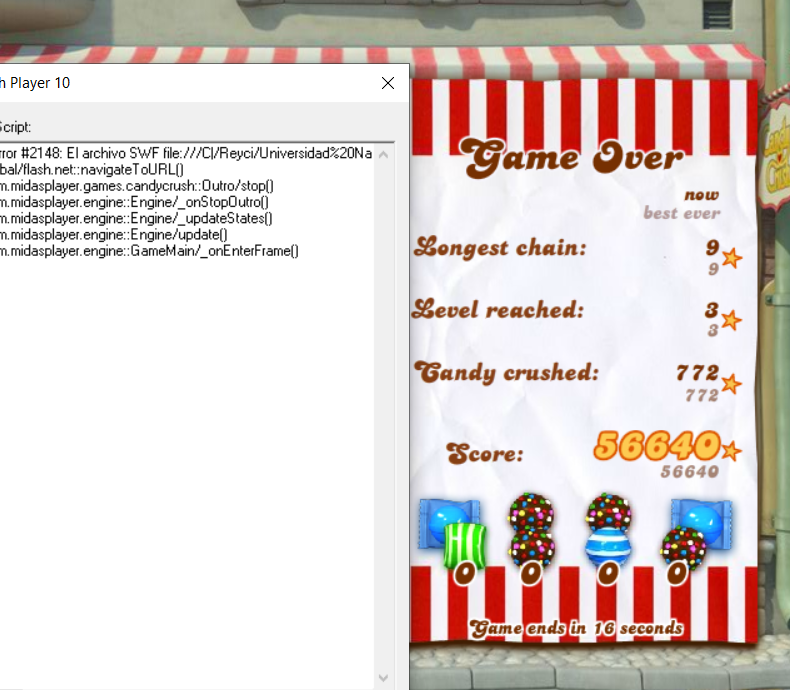
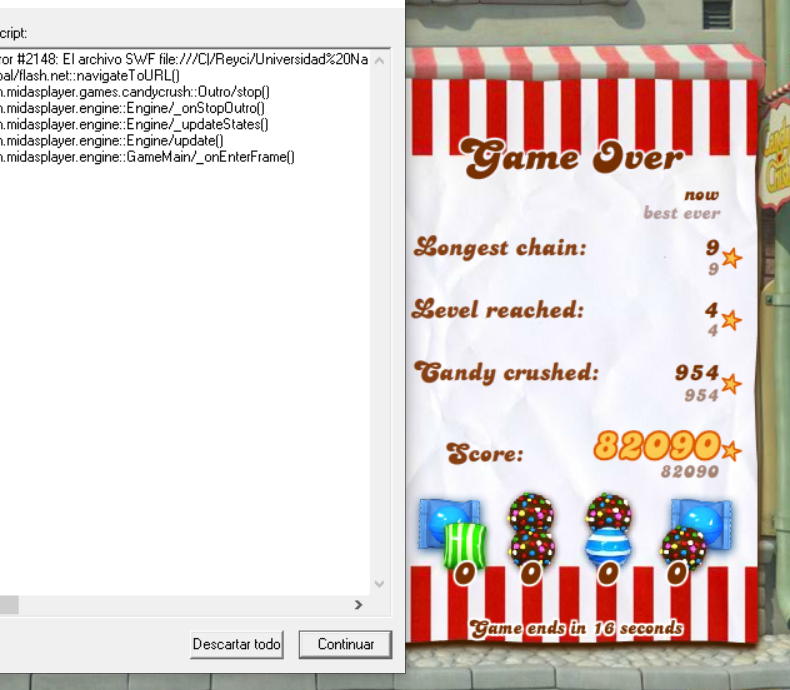
scored 103k max

diff --git a/sensorStar.py b/sensorStar.py
@@ -59,7 +59,7 @@ def identifyPackedCandy(r,g,b):
         print("my: ",r,g,b)
         return 20 # orange packed candy
     
-    elif(r in range(20,120) and g in range(100,250) and b in range(150,300)):
+    elif(r in range(20,120) and g in range(100,270) and b in range(150,300)):
         print("my: ",r,g,b)
         return 21 # blue packed candy
     
@@ -105,7 +105,7 @@ def sensorLoop():
     counter_rep=0
     last_movement_x = 0
     last_movement_y = 0
-    while(counter<=200):
+    while(True):
         counter+=1
         pic = pyautogui.screenshot(region = (125,60,790,690))
 
@@ -198,11 +198,6 @@ def sensorLoop():
 
                 candy = identifyCandy(pixels)
 
-                if(x==last_movement_y and y==last_movement_x and changeMatrix==True):
-                    changeMatrix=False
-                    candy+=1
-
-
                 '''
                 if(candy==8):
                     candy=3
@@ -212,9 +207,6 @@ def sensorLoop():
                     print(pixels)
                     continue '''
     
-
-
-
                 board_matrix[counter_y][counter_x]=candy
 
 
@@ -236,29 +228,37 @@ def sensorLoop():
         x=tupla[0][1]
         y = tupla[0][0]
 
+        '''
+        if(last_movement_x==x and last_movement_y==y):
+            counter_rep+=1
+
+        else:
+            counter_rep=0
+
         print(tupla)
 
-        if(last_movement_y==y and last_movement_x==x and counter_rep>5):
-            changeMatrix = True
-            continue
+        if(counter_rep>5):
+            break
+            continue 
         
-        else:
+        else: '''
 
-            counter_rep=0
-            last_movement_y=y
-            last_movement_x=x
+        last_movement_y=y
+        last_movement_x=x
 
-            if(tupla[1] == (0,1)):
-                actuators.crash_candy(x,y,'right')
+        if(tupla[1] == (0,1)):
+            actuators.crash_candy(x,y,'right')
 
-            elif(tupla[1] == (0,-1)):
-                actuators.crash_candy(x,y,'left')
+        elif(tupla[1] == (0,-1)):
+            actuators.crash_candy(x,y,'left')
 
-            elif(tupla[1] == (-1,0)):
-                actuators.crash_candy(x,y,'up')
+        elif(tupla[1] == (-1,0)):
+            actuators.crash_candy(x,y,'up')
 
-            elif(tupla[1] == (1,0)):
-                actuators.crash_candy(x,y,'down') 
+        elif(tupla[1] == (1,0)):
+            actuators.crash_candy(x,y,'down') 
+        
+        time.sleep(0.2)
 
         
 
@@ -358,7 +358,6 @@ def sensor():
 
             if(candy==8):
                 candy=3
-                flag=True
                 print("ERROR: ",end="")
                 print("{},{}: ".format(counter_y,counter_x),end="")
                 print(pixels)
@@ -406,5 +405,6 @@ def sensor():
 
 
 sensorLoop()
+#sensor()
 
 
